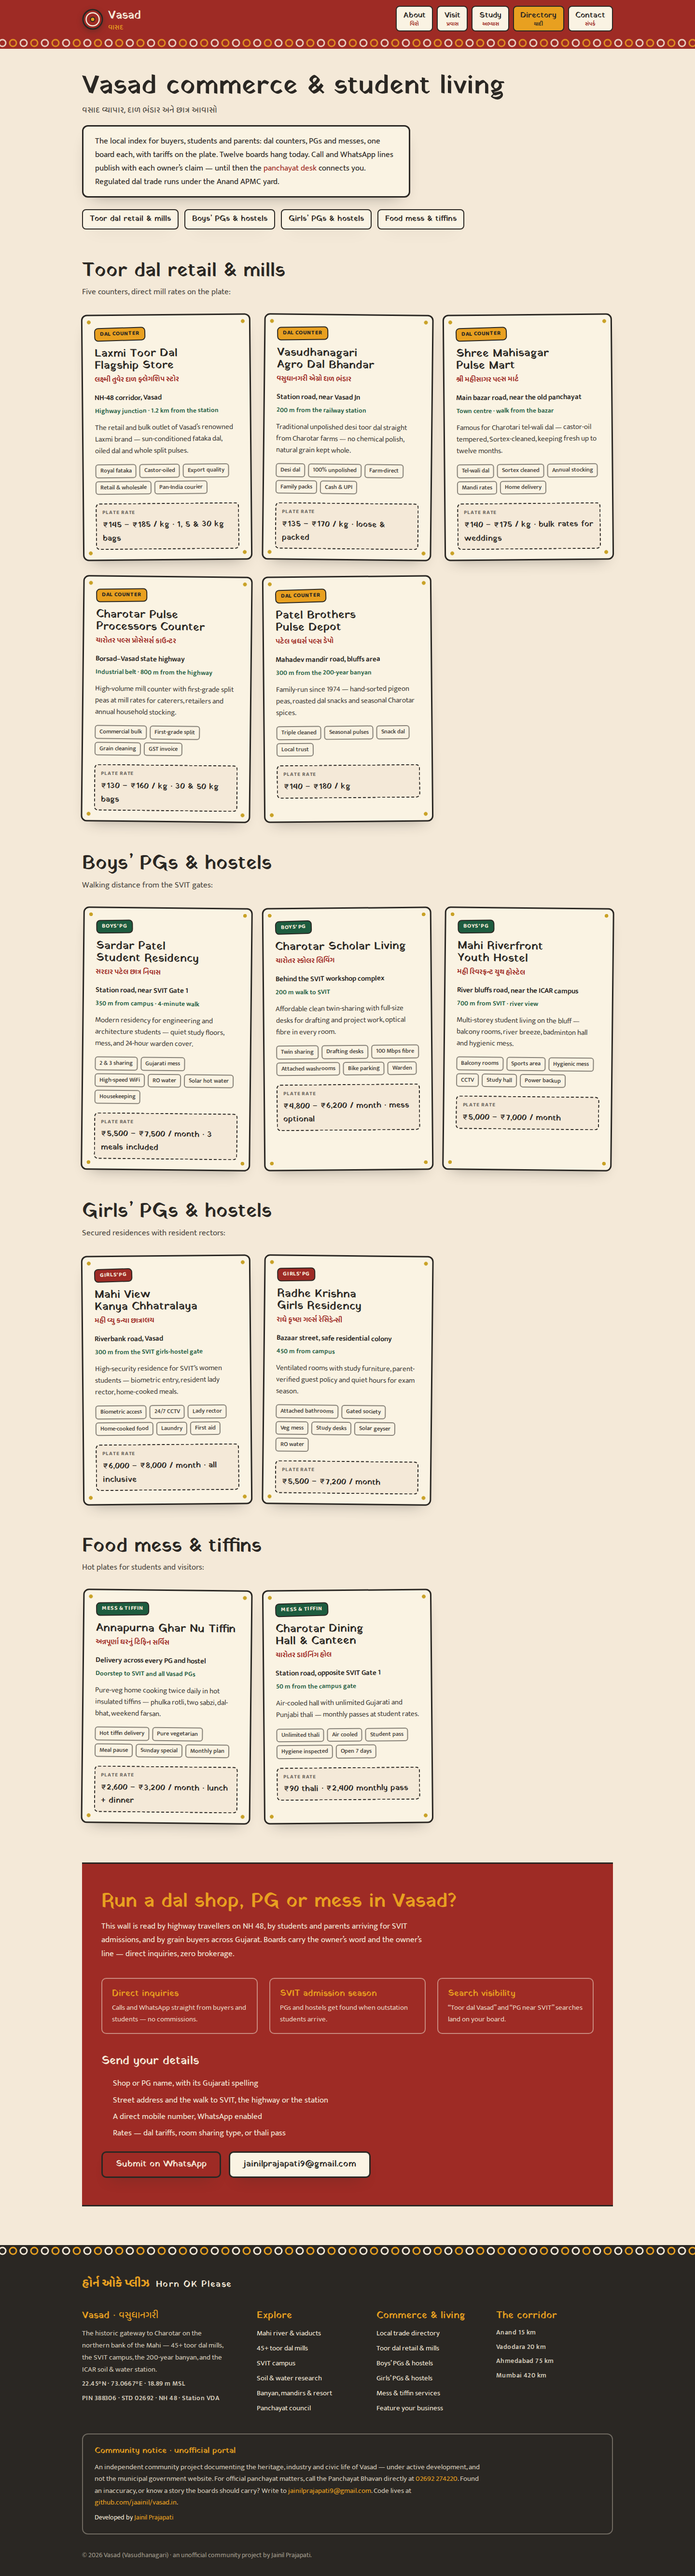
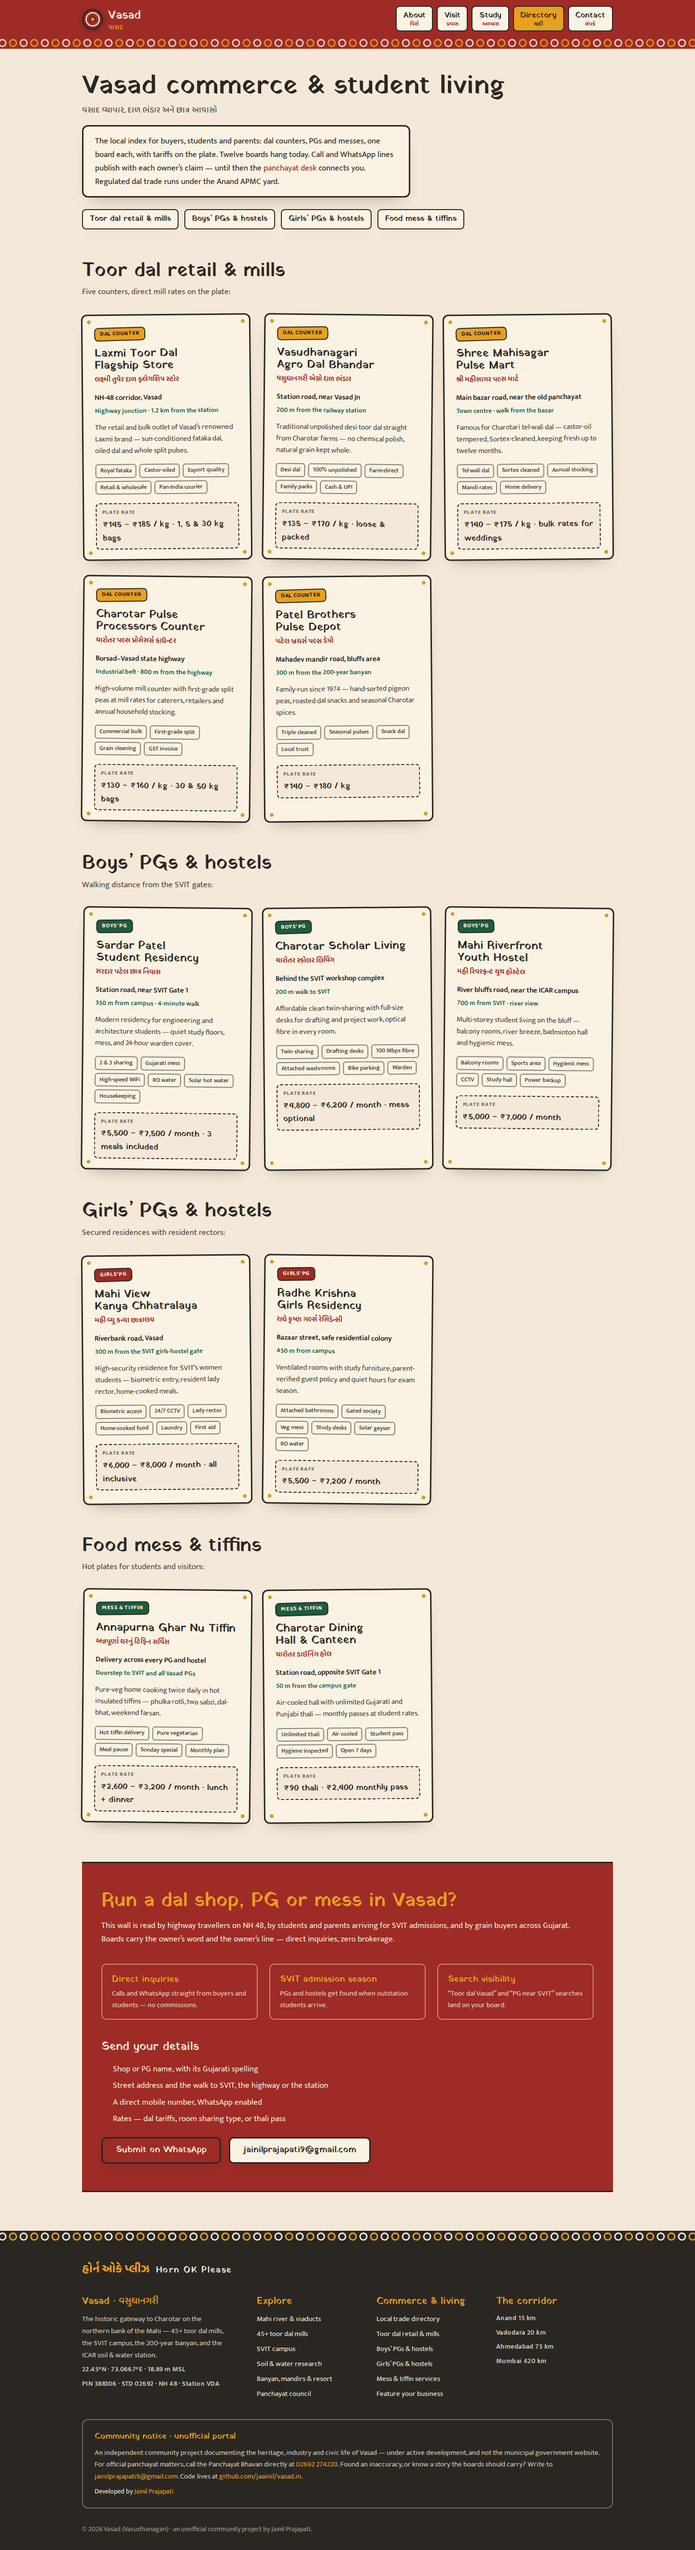
Update images and enhance content across multiple pages for improved clarity and accessibility

Changed region(s): [[0.0, 0.0312, 1.0, 1.0], [0.6562, 0.3438, 0.875, 0.4688], [0.6562, 0.125, 0.875, 0.2188]]

diff --git a/PRODUCT.md b/PRODUCT.md
@@ -47,6 +47,8 @@ The only comprehensive digital home for Vasad itself. Not a resort site, not a c
 ## Evidence on Hand
 
 - Wikipedia town record (provided in session brief) — demographics, economy, transport, education, landmarks, references. No photography, logo, or official assets yet; do not fabricate images of real people or claim official government status.
+- Updated town Wikipedia record (Sept 2026): confirms Sarpanch Poonambhai D. Parmar with Deputy Deepbhai P. Patel, ~5 tobacco processing units, Laxmi Toor Dal as the named local brand with export demand.
+- SVIT Wikipedia record (Aug 2026): founded 1997 by the New English School Trust (NEST), named for Sardar Vallabhbhai Patel; motto यंत्रविद्या पराविद्या; AICTE-approved, GTU-affiliated (began under Gujarat University with Civil/Mechanical/Electrical at 60 each); 26-acre riverside campus, 3,000+ students, 150+ teachers; engineering intakes — Computer 180, IT 120, Computer Science & Design 60, Aeronautical 60, Civil 60, Mechanical 60, Electrical 60, EC 30; M.E. lines (CAD/CAM, Structural, Software, Cyber warfare) at 18 each; MBA 30; MCA 60; diploma programs (Computer 60, IT 30, Mechanical 30, Electrical 30, Civil 30); College of Architecture (2000: B.Arch 80, B.ID 40, D.Arch 40; CoA-approved, Sardar Patel University since 2016); SVION nursing (GNM 60, B.Sc Nursing 60); festivals PRAKARSH, VISION, SPANDAN, ZEST-O-PUS, AVISHKAR; chairman Shri Bhaskerbhai Chandubhai Patel; chairperson Shri Sandipbhai Rameshbhai Patel; principals Dr. D. P. Soni (Engineering), Ar. Pragnesh Shah (Architecture), Dr. Jonita Roman (MCA), Dr. Ekta Patel (Nursing); svitvasad.ac.in.
 - User-supplied full content record (the operator's existing vasad.in portal, provided in session) — the authoritative content source for this build: Laxmi Toor Dal and the mill registry (estd years, MT/day capacities); the Vasad processing method; ICAR–IISWC soil & water research station and ravine (kotar) reclamation; SVIT's three colleges, intakes and campus stats; the 200-year banyan and six-mandir circuit; Art of Living ashram; Krishna Riverside Resort; Vasad Jn (code VDA); day-trip distances (Vadodara 20, Dakor 35, Champaner-Pavagadh 65, Statue of Unity 105 km); census detail (3,047 households, sex ratio 910); panchayat council (Sarpanch Poonambhai D. Parmar, Deputy Deepbhai P. Patel), service schedules and emergency phone lines; twelve directory listings (dal retail, boys/girls PGs, mess/tiffin).
 - Site status: independent, unofficial community portal under active development — not the municipal government website. Developer credit: Jainil Prajapati (jaainil.com); repo github.com/jaainil/vasad.in; feedback jainilprajapati9@gmail.com.
 
